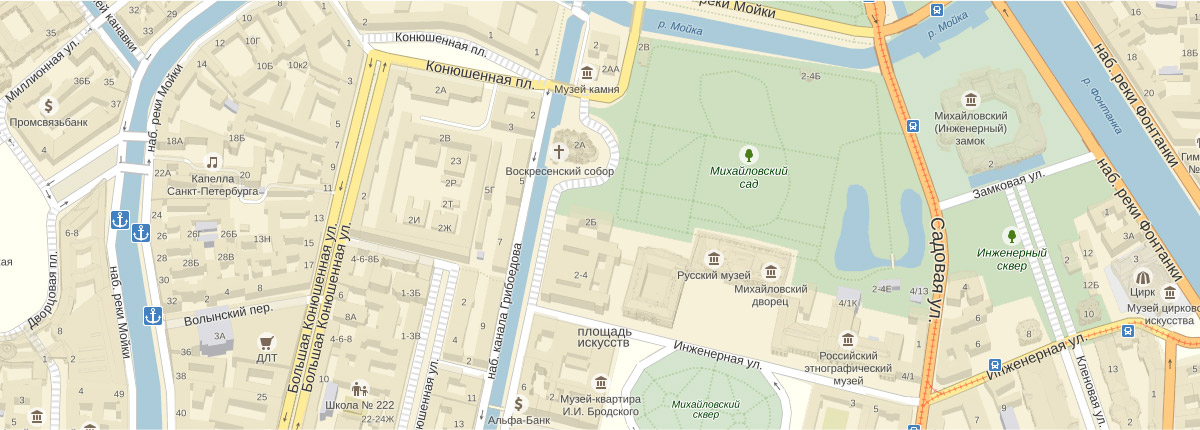
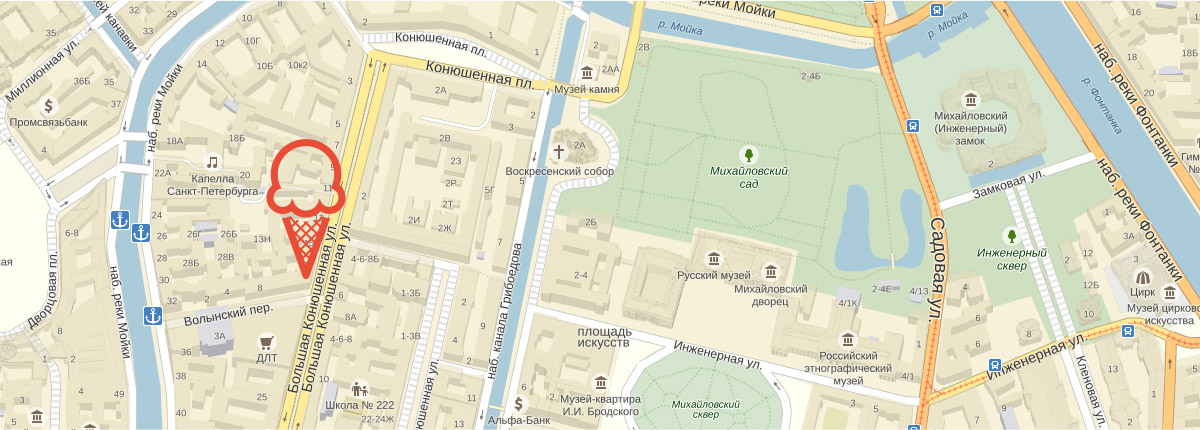
оформление контента
Исправлены замечания

Changed region(s): [[0.2158, 0.3023, 0.3083, 0.6349]]

diff --git a/css/style.css b/css/style.css
@@ -123,6 +123,7 @@ body {
 .pagination {
   list-style: none;
 }
+
 .submenu-container {
   position: relative;
 }
@@ -154,7 +155,7 @@ body {
 
 .catalog-navigation::before {  /*Чтобы выпадающее меню не закрывалось, я выдумал это, т.к. если делать отступы ссылкам и увеличивать li, то от ссылок улетает border. Но мне кажется тебе не понравится этот способ))*/
   content: '';  /*Возможно он даже неправильный*/
-  position: absolute;
+  position: absolute;   /*То, что между пунктом и окном невидимая обалсть, которая не дает закрываться окошку, мне показалось удобным*/
   height: 5px;
   top: -5px;
   width: 110px;
@@ -381,9 +382,8 @@ body {
 .offers-button {
   padding: 13px 24px;
   border-radius: 30px;
-  position: absolute;
-  bottom: 22px;
-  right: 22px;
+  display: inline-block;
+  margin-left: auto;
   background-image: linear-gradient(0deg, rgb(202, 56, 36) 0%, rgb(242, 104, 67) 100%);
   box-shadow: 0 2px 2px 0 rgba(85, 8, 0, 0.54);
   text-shadow: none;
@@ -740,20 +740,22 @@ body {
 .second-offer {
   width: 48.87%;
   box-sizing: border-box;
-  padding: 18px 28px 36px 18px;/*Текст блока не получается расположить так, как на макете (в 2 строки)*/
+  padding: 18px 28px 20px 18px;/*Текст блока не получается расположить так, как на макете (в 2 строки)*/
   background-size: cover;
 }
 
 .first-offer p,
 .second-offer p {
   margin-top: 16px;
-  margin-bottom: 53px;
+  margin-bottom: 45px;
+  text-align: left;
 }
 
 .offers-caption {
   font-size: 35px;
   line-height: 41px;
   margin: 0;
+  text-align: left;
 }
 
 .offers-buttton {
@@ -864,7 +866,7 @@ body {
   padding: 0;
   margin: 0;
   padding-left: 20px;
-  padding-top: 28px;
+  padding-top: 22px;
   padding-bottom: 10px;
 }
 
@@ -1291,6 +1293,7 @@ body {
   justify-content: space-between;
   margin: 0 auto;
   margin-bottom: 40px;
+  text-align: right;
 }
 
 .product-icecream {
@@ -1357,6 +1360,11 @@ body {
 }
 
 .advantages-list p {
+  margin: 0;
+  font-size: 16px;
+  line-height: 22px;
+  padding-top: 10px;
+  padding-bottom: 12px;
   padding-left: 58px;
   padding-right: 33px;
 }

diff --git a/index.html b/index.html
@@ -199,7 +199,7 @@
       </div>
     </main>
     <div class='map'>
-      <span class='pin'></span>
+      <!-- <span class='pin'></span> -->
       <div class='container'>
         <div class='contact-information'>
           Адрес главного офиса<br>
